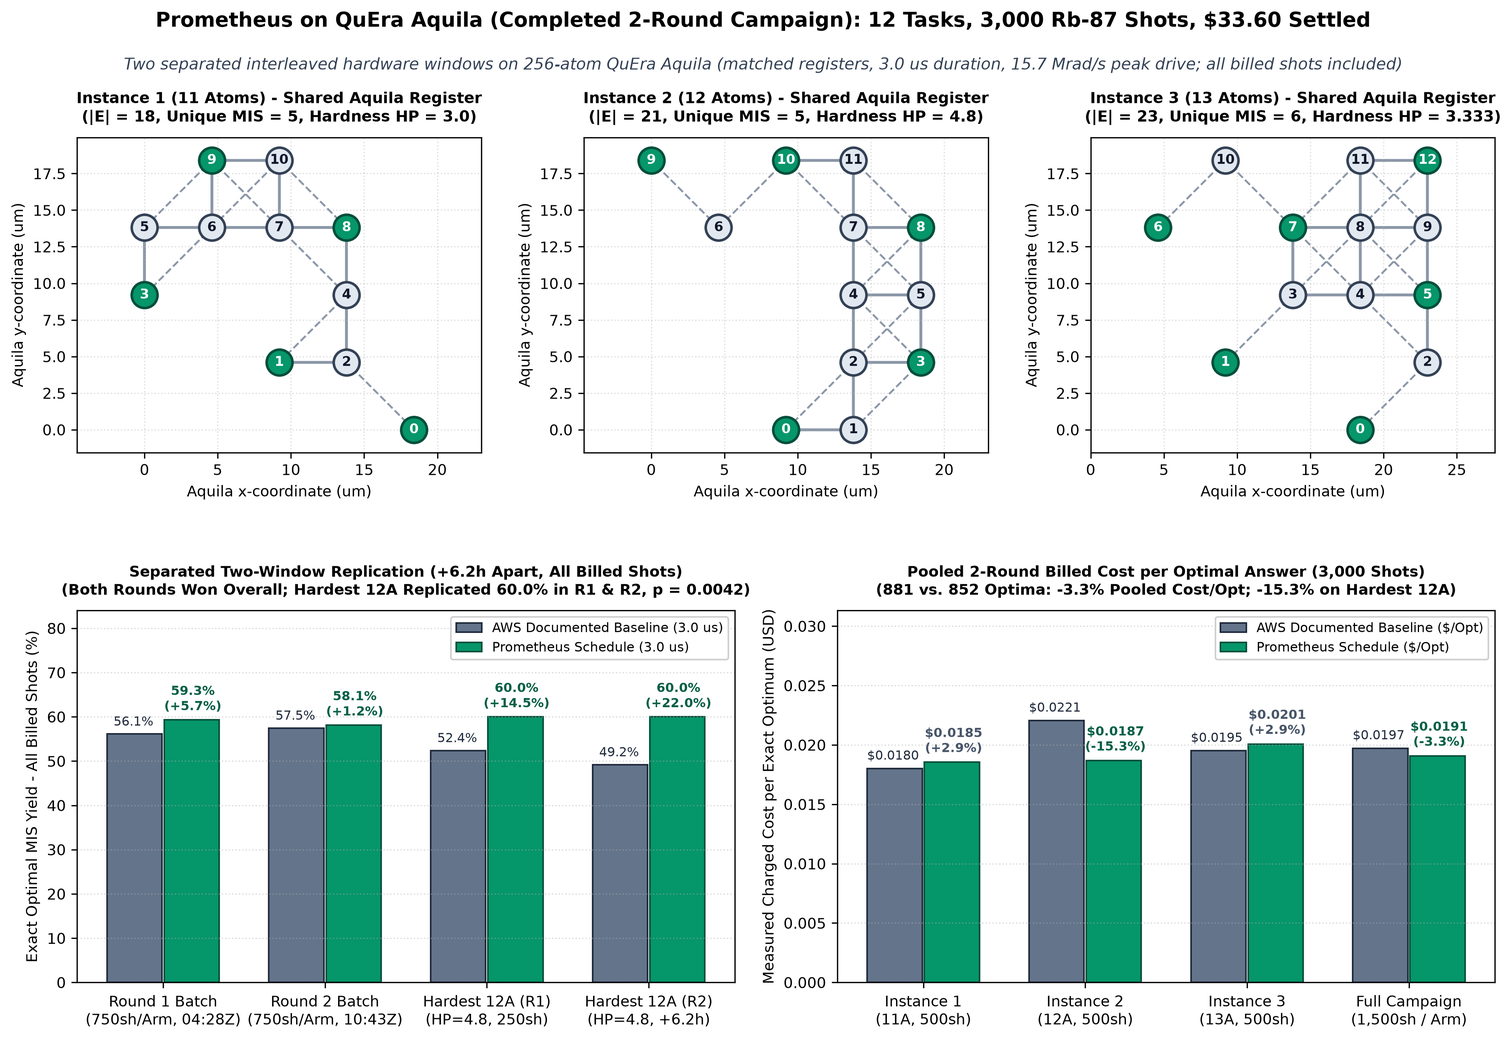
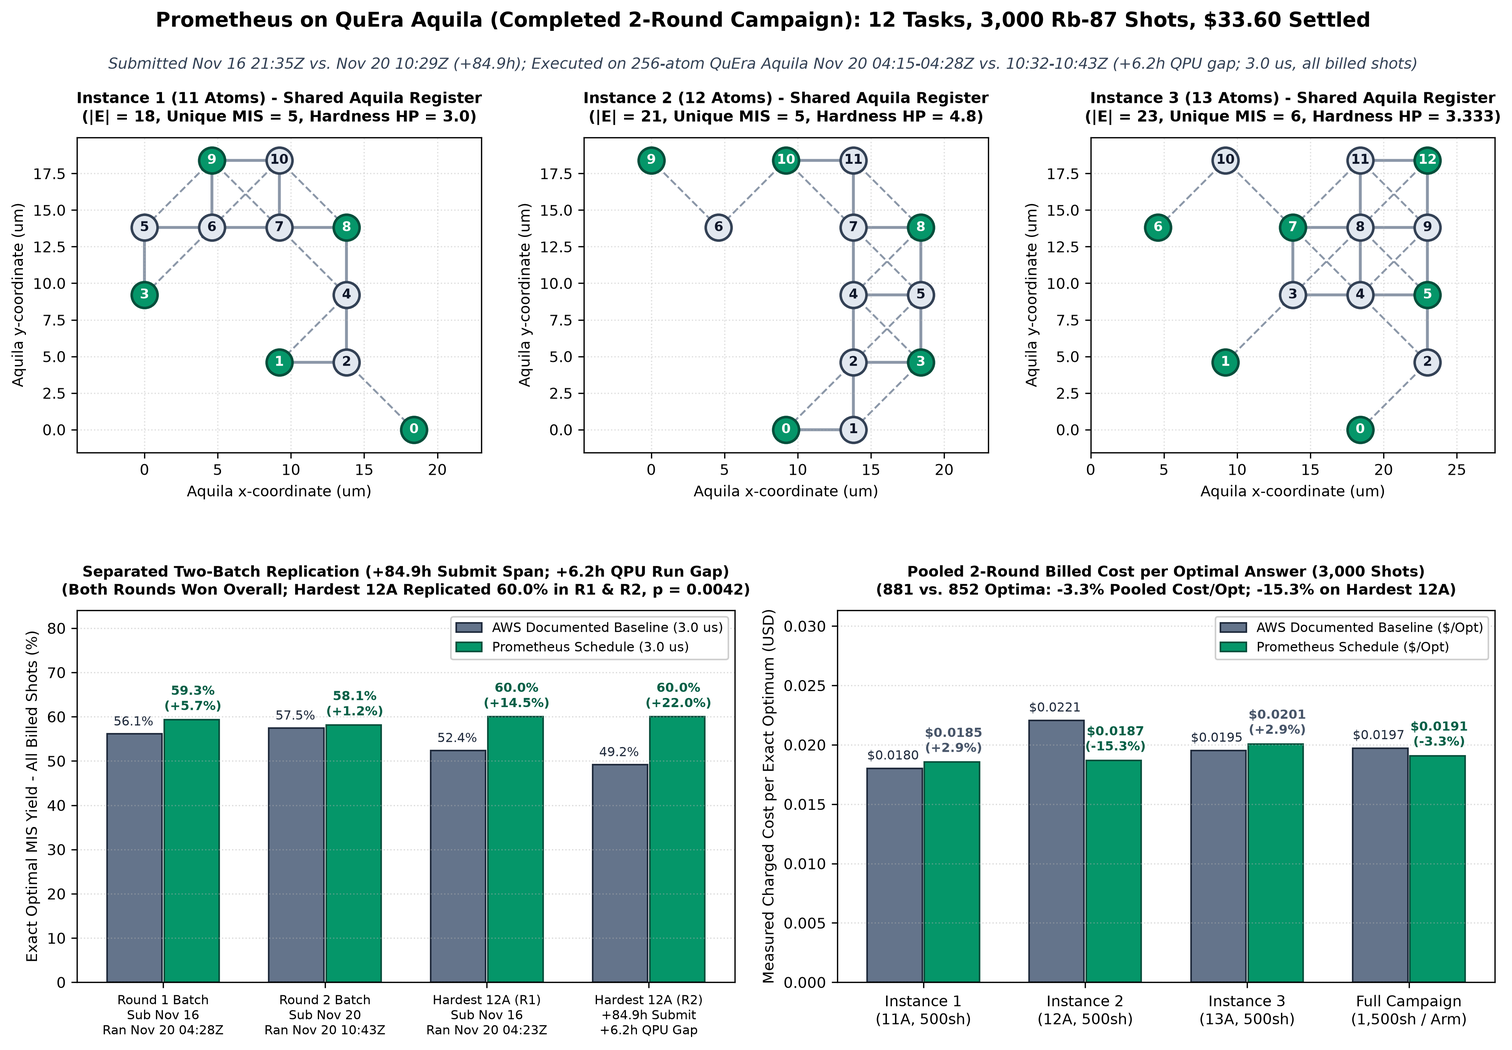
Clarify QuEra Aquila Created (+84.9h) vs Ended (+6.2h QPU gap) chronology across docs and Figure 5

diff --git a/README.md b/README.md
@@ -5,7 +5,7 @@
 **We tested Prometheus across both superconducting gate-model and neutral-atom analog quantum processors accessed through Amazon Braket, repeating comparisons across separated execution windows.**
 
 - **Superconducting Gate-Model (`108Q` `Rigetti Cepheus-1-108Q`, `10` Tasks, `450` Circuits, `460,800` Shots):** Repeating **18 application-style workloads across three calibration windows** (initial run, `+9.3h` drift, and post-recalibration), live-calibration Prometheus outperformed Qiskit SABRE on **`16 of 18` workloads (`+3.91%` mean output overlap)** and Quantinuum TKET on **`15 of 18` (`+9.03%`)**, widening its lead over SABRE to **`+6.61%`** after recalibration. Supporting suites in Tables 1A-1C report unseen equal-CPU-budget tasks, QAOA optimization trajectories, and diagnostic Clifford mirrors, including regimes where SABRE or TKET led slightly.
-- **Neutral-Atom Analog Hamiltonian Simulation (`256`-Atom `QuEra Aquila`, `12` Tasks, `3,000` Rb-87 Shots Across `2` Separated Windows `+6.2h` Apart):** Across `1,500` billed shots and `USD 16.80` per arm (`0` experimental `rydbergLocal` terms, identical `AtomArrangement` registers, `3.0 us` duration, and `15.7 Mrad/s` peak drive), Prometheus outperformed AWS's documented baseline in **both execution windows (`445` vs. `421` in Window 1; `436` vs. `431` in Window 2 = `881` vs. `852` exact optimal answers, `+3.40%` pooled yield, `-3.29%` pooled cost/optimum)**, replicated **`60.00%` (`150/250`) in both windows** on the hardest `12A` topology (`HP = 4.80`: **`300/500` vs. `254/500`, `+18.11%` yield, `-15.35%` cost/optimum, Fisher `p = 0.0042`**), and recorded **`40.34%` fewer suboptimal maximal-independent-set outcomes across `6 of 6` paired tasks (`105` vs. `176`, `p = 1.1e-5`)**.
+- **Neutral-Atom Analog Hamiltonian Simulation (`256`-Atom `QuEra Aquila`, `12` Tasks, `3,000` Rb-87 Shots Across `2` Separated Batches: `+84.9h` Task Submission Span [`Nov 16` vs. `Nov 20`], `+6.2h` Physical QPU Execution Gap on `2026-11-20`):** Round 1 (`6` tasks) was submitted `2026-11-16 21:35 UTC` between scheduled neutral-atom operating windows and physically executed `2026-11-20 04:15-04:28 UTC`; Round 2 (`6` tasks) was submitted `2026-11-20 10:29 UTC` (`+84.9h` later) and physically executed `2026-11-20 10:32-10:43 UTC` (`+6.2h` physical QPU separation). Across `1,500` billed shots and `USD 16.80` per arm (`0` experimental `rydbergLocal` terms, identical `AtomArrangement` registers, `3.0 us` duration, and `15.7 Mrad/s` peak drive), Prometheus outperformed AWS's documented baseline in **both execution windows (`445` vs. `421` in Window 1; `436` vs. `431` in Window 2 = `881` vs. `852` exact optimal answers, `+3.40%` pooled yield, `-3.29%` pooled cost/optimum)**, replicated **`60.00%` (`150/250`) in both windows** on the hardest `12A` topology (`HP = 4.80`: **`300/500` vs. `254/500`, `+18.11%` yield, `-15.35%` cost/optimum, Fisher `p = 0.0042`**), and recorded **`40.34%` fewer suboptimal maximal-independent-set outcomes across `6 of 6` paired tasks (`105` vs. `176`, `p = 1.1e-5`)**.
 
 **[Detailed results](DETAILED_TECHNICAL_REPORT.md) · [Verify the evidence](#verify-the-evidence) · [Discuss a pilot](#discuss-a-pilot)**
 
@@ -45,20 +45,20 @@
 | **Qiskit SABRE O3** | **0.2442** | **0.6221 / 0.6151** | **0.0907** | **6.0116** | 120.67 \| 119.44 | **Led 4Q-36Q Rigetti mirror suite** despite `5.2%` more CZ gates than Prometheus |
 | **Quantinuum TKET O2** | 0.0501 | 0.5251 / 0.5250 | 0.0192 | 7.0173 | 182.00 \| 201.33 | Severe inter-tile SWAP overhead (`+58.7%` more CZ gates than Prometheus) |
 
-### Table 1D: Two-Window Neutral-Atom Analog Hamiltonian Simulation (`256`-Atom `QuEra Aquila`, `N = 12` AWS Braket Tasks, `3,000` Physical Rb-87 Shots Across `+6.2h` Separated Windows, `USD 33.6000`)
+### Table 1D: Two-Window Neutral-Atom Analog Hamiltonian Simulation (`256`-Atom `QuEra Aquila`, `N = 12` AWS Braket Tasks, `3,000` Physical Rb-87 Shots; `+84.9h` Submit Span / `+6.2h` QPU Execution Gap, `USD 33.6000`)
 
-*Scope & Matched Controls:* `3` development-selected King's-Graph Unit-Disk Graph `MIS` topologies (`11A`, `12A`, `13A`; unique `D_alpha = 1` optimum) $\times$ `2` matched-duration (`3.0 us`, `15.70 Mrad/s` peak Rabi drive, `0` `rydbergLocal` terms, identical `AtomArrangement` coordinates) global `DrivingField` schedules $\times$ `2` interleaved hardware windows (`250` shots/task = `500` shots/arm per instance; `1,500` shots and `USD 16.80` per arm total).
+*Scope, Timestamps & Matched Controls:* `3` development-selected King's-Graph Unit-Disk Graph `MIS` topologies (`11A`, `12A`, `13A`; unique `D_alpha = 1` optimum) $\times$ `2` matched-duration (`3.0 us`, `15.70 Mrad/s` peak Rabi drive, `0` `rydbergLocal` terms, identical `AtomArrangement` coordinates) global `DrivingField` schedules $\times$ `2` interleaved batches (`250` shots/task = `500` shots/arm per instance; `1,500` shots and `USD 16.80` per arm total). **Chronology (`Created at` vs. `Ended at`):** Round 1 tasks were submitted `2026-11-16 21:35 UTC` (while Aquila queued between scheduled operating windows) and physically executed `2026-11-20 04:15-04:28 UTC`; Round 2 tasks were submitted `2026-11-20 10:29 UTC` (`+84.9h` submission separation) and physically executed `2026-11-20 10:32-10:43 UTC` (`+6.2h` physical QPU execution gap).
 
 | Instance / Cohort (`500` Shots/Arm per Instance; `1,500` Shots/Arm Total) | Global Schedule (`T = 3.0 us`) | Valid IS Rate $P_{\text{valid}}$ `(↑)` *(All / Defect-Free)* | Exact Optimum $P_{\text{opt}}$ `(↑)` *(All Billed Shots)* | Exact Optimum $P_{\text{opt}}$ `(↑)` *(Defect-Free Subset)* | Unrepaired Quality $r_{\text{MIS}}$ `(↑)` `*(mean)*` | Suboptimal MIS Outcomes `(↓)` *(All / DF)* | Blockade Viol. \| Pre-Seq Vacancies `(↓)` | Billed `USD / Opt` `(↓)` (`% Delta`, Two-Sided Fisher `p`) |
 | :--- | :--- | :---: | :---: | :---: | :---: | :---: | :---: | :--- |
-| **`P1_EbadiHard_11A_s7045`** (`11A`, `MIS = 5`, `HP = 3.00`)<br>Tasks `f95ab6...`, `b0aa91...`, `095425...`, `c1b166...` | AWS Documented Baseline<br>**Prometheus Schedule** | **`95.00%` / `94.67%`**<br>`93.60%` / `93.70%` | **`62.20%` (`311/500`)**<br>`60.40%` (`302/500`) | **`63.33%` (`297/469`)**<br>`62.18%` (`296/476`) | **`0.8732`**<br>`0.8564` | `8.80%` (`44`) / `8.10%`<br>**`5.40%` (`27`) / `4.20%`** | **`25`** \| `31`<br>`32` \| **`24`** | **`\$0.01801`**<br>`\$0.01854` (`+2.98%`, `p = 0.6035`; subopt. MIS **-38.6%**, `p = 0.0482`) |
-| **`P2_EbadiHard_12A_s8024`** (`12A`, `MIS = 5`, `HP = 4.80`)<br>Tasks `7cba59...`, `c2d84a...`, `ce66ea...`, `6d0844...` | AWS Documented Baseline<br>**Prometheus Schedule** | `89.40%` / `89.46%`<br>**`92.40%` / `92.36%`** | `50.80%` (`254/500`)<br>**`60.00%` (`300/500`)** | `51.61%` (`240/465`)<br>**`61.15%` (`288/471`)** | `0.8016`<br>**`0.8464`** | `16.40%` (`82`) / `15.48%`<br>**`9.60%` (`48`) / `7.22%`** | `53` \| `35`<br>**`38` \| `29`** | `\$0.02205`<br>**`\$0.01867` (`-15.35%`, `p = 0.0042`; `60.0%` in both R1 & R2)** |
-| **`P3_EbadiHard_13A_s9001`** (`13A`, `MIS = 6`, `HP = 3.33`)<br>Tasks `08c026...`, `b48c80...`, `9e5b07...`, `88a26a...` | AWS Documented Baseline<br>**Prometheus Schedule** | `92.00%` / `91.56%`<br>**`92.80%` / `92.55%`** | **`57.40%` (`287/500`)**<br>`55.80%` (`279/500`) | **`60.17%` (`278/462`)**<br>`58.09%` (`273/470`) | `0.8500`<br>**`0.8507`** | `10.00%` (`50`) / `6.93%`<br>**`6.00%` (`30`) / `4.47%`** | `40` \| `38`<br>**`36` \| `30`** | **`\$0.01951`**<br>`\$0.02007` (`+2.87%`, `p = 0.6552`; subopt. MIS **-40.0%**, `p = 0.0263`) |
-| **6-Task Campaign `*(mean / median)*`**<br>(`250` Shots/Task $\times$ `6` Tasks/Arm) | AWS Documented Baseline<br>**Prometheus Schedule** | `92.13% / 92.00%`<br>**`92.93% / 92.60%`** | `56.80% / 57.40%`<br>**`58.73% / 60.00%`** | `58.40% / 59.22%`<br>**`60.46% / 61.15%`** | `0.8416` / **0.8500**<br>**`0.8512`** / `0.8490` | `11.73% / 10.00%`<br>**`7.00% / 6.80%`** | `19.67` \| `17.33`<br>**`17.67` \| `13.83`** | `\$0.01988 / \$0.01955`<br>**`\$0.01912 / \$0.01870` (`-3.85%` mean / `-4.35%` med)** |
-| **Grand Pooled Totals (`3,000` Shots)**<br>(`1,500` Shots / `USD 16.80` per Arm) | AWS Documented Baseline<br>**Prometheus Schedule** | `1382/1500` (`92.13%`)<br>**`1394/1500` (`92.93%`)** | `852/1500` (`56.80%`)<br>**`881/1500` (`58.73%`)** | `815/1396` (`58.38%`)<br>**`857/1417` (`60.48%`)** | `0.8416`<br>**`0.8512`** | `176/1500` (`11.73%`)<br>**`105/1500` (`7.00%`)** | `118` \| `104`<br>**`106` \| `83`** | `\$0.01972`<br>**`\$0.01907` (`-3.29%` pooled; subopt. MIS `-40.34%`, `p = 1.1e-5`)** |
+| **`P1_EbadiHard_11A_s7045`** (`11A`, `MIS = 5`, `HP = 3.00`)<br>Tasks `f95ab6...`, `b0aa91...`, `095425...`, `c1b166...` | AWS Documented Baseline<br>**Prometheus Schedule** | **`95.00%` / `94.67%`**<br>`93.60%` / `93.70%` | **`62.20%` (`311/500`)**<br>`60.40%` (`302/500`) | **`63.33%` (`297/469`)**<br>`62.18%` (`296/476`) | **`0.8732`**<br>`0.8564` | `8.80%` (`44`) / `8.10%`<br>**`5.40%` (`27`) / `4.20%`** | **`25`** \| `31`<br>`32` \| **`24`** | **`USD 0.01801`**<br>`USD 0.01854` (`+2.98%`, `p = 0.6035`; subopt. MIS **-38.6%**, `p = 0.0482`) |
+| **`P2_EbadiHard_12A_s8024`** (`12A`, `MIS = 5`, `HP = 4.80`)<br>Tasks `7cba59...`, `c2d84a...`, `ce66ea...`, `6d0844...` | AWS Documented Baseline<br>**Prometheus Schedule** | `89.40%` / `89.46%`<br>**`92.40%` / `92.36%`** | `50.80%` (`254/500`)<br>**`60.00%` (`300/500`)** | `51.61%` (`240/465`)<br>**`61.15%` (`288/471`)** | `0.8016`<br>**`0.8464`** | `16.40%` (`82`) / `15.48%`<br>**`9.60%` (`48`) / `7.22%`** | `53` \| `35`<br>**`38` \| `29`** | `USD 0.02205`<br>**`USD 0.01867` (`-15.35%`, `p = 0.0042`; `60.0%` in both R1 & R2)** |
+| **`P3_EbadiHard_13A_s9001`** (`13A`, `MIS = 6`, `HP = 3.33`)<br>Tasks `08c026...`, `b48c80...`, `9e5b07...`, `88a26a...` | AWS Documented Baseline<br>**Prometheus Schedule** | `92.00%` / `91.56%`<br>**`92.80%` / `92.55%`** | **`57.40%` (`287/500`)**<br>`55.80%` (`279/500`) | **`60.17%` (`278/462`)**<br>`58.09%` (`273/470`) | `0.8500`<br>**`0.8507`** | `10.00%` (`50`) / `6.93%`<br>**`6.00%` (`30`) / `4.47%`** | `40` \| `38`<br>**`36` \| `30`** | **`USD 0.01951`**<br>`USD 0.02007` (`+2.87%`, `p = 0.6552`; subopt. MIS **-40.0%**, `p = 0.0263`) |
+| **6-Task Campaign `*(mean / median)*`**<br>(`250` Shots/Task $\times$ `6` Tasks/Arm) | AWS Documented Baseline<br>**Prometheus Schedule** | `92.13% / 92.00%`<br>**`92.93% / 92.60%`** | `56.80% / 57.40%`<br>**`58.73% / 60.00%`** | `58.40% / 59.22%`<br>**`60.46% / 61.15%`** | `0.8416` / **0.8500**<br>**`0.8512`** / `0.8490` | `11.73% / 10.00%`<br>**`7.00% / 6.80%`** | `19.67` \| `17.33`<br>**`17.67` \| `13.83`** | `USD 0.01988 / USD 0.01955`<br>**`USD 0.01912 / USD 0.01870` (`-3.85%` mean / `-4.35%` med)** |
+| **Grand Pooled Totals (`3,000` Shots)**<br>(`1,500` Shots / `USD 16.80` per Arm) | AWS Documented Baseline<br>**Prometheus Schedule** | `1382/1500` (`92.13%`)<br>**`1394/1500` (`92.93%`)** | `852/1500` (`56.80%`)<br>**`881/1500` (`58.73%`)** | `815/1396` (`58.38%`)<br>**`857/1417` (`60.48%`)** | `0.8416`<br>**`0.8512`** | `176/1500` (`11.73%`)<br>**`105/1500` (`7.00%`)** | `118` \| `104`<br>**`106` \| `83`** | `USD 0.01972`<br>**`USD 0.01907` (`-3.29%` pooled; subopt. MIS `-40.34%`, `p = 1.1e-5`)** |
 
 ![Two-Window Neutral-Atom Replication on 256-Atom QuEra Aquila](assets/fig5_aquila_2window_neutral_atom_replication.png)
-*Part II summary (`256`-atom `QuEra Aquila` via AWS Braket): Separated two-window replication (`+6.2h` apart, `12` AHS tasks, `3,000` physical Rb-87 shots) showing higher overall billed optimal-answer yield in both rounds (`59.3%` vs. `56.1%` in R1; `58.1%` vs. `57.5%` in R2) and repeated `60.0%` optimum probability on the hardest `12A` (`HP = 4.80`) topology (`p = 0.0042`, `-15.35%` cost/optimum).*
+*Part II summary (`256`-atom `QuEra Aquila` via AWS Braket): Separated two-batch replication (`+84.9h` task submission span from `Nov 16 21:35Z` to `Nov 20 10:29Z`; `+6.2h` physical QPU execution gap on `2026-11-20` between `04:15-04:28Z` and `10:32-10:43Z`, `12` AHS tasks, `3,000` physical Rb-87 shots) showing higher overall billed optimal-answer yield in both rounds (`59.3%` vs. `56.1%` in R1; `58.1%` vs. `57.5%` in R2) and repeated `60.0%` optimum probability on the hardest `12A` (`HP = 4.80`) topology (`p = 0.0042`, `-15.35%` cost/optimum).*
 
 ---
 

diff --git a/DETAILED_TECHNICAL_REPORT.md b/DETAILED_TECHNICAL_REPORT.md
@@ -107,22 +107,24 @@
 
 ## 4. Two-Window Neutral-Atom Ledger on `256`-Atom `QuEra Aquila` (`12` AWS Braket Tasks, `3,000` Rb-87 Shots, `USD 33.6000`)
 
+*Timestamp Chronology (`Created at` in AWS Braket Console vs. Physical QPU `Ended at`):* Round 1 (`R1 #1-#6`) was submitted at `2026-11-16 21:35:49-21:35:55 UTC` while `QuEra Aquila` was queued between scheduled neutral-atom operating windows and physically executed at `2026-11-20 04:15:56-04:28:48 UTC`. Round 2 (`R2 #1-#6`) was submitted `+84.9h` (`~3.5 days`) later at `2026-11-20 10:29:04-10:29:10 UTC` during an open Aquila operating window and physically executed at `2026-11-20 10:32:29-10:43:10 UTC` (`+6.2h` physical QPU execution gap after Round 1 completed).
+
 ![Figure 5: Two-Window Neutral-Atom Replication on 256-Atom QuEra Aquila](assets/fig5_aquila_2window_neutral_atom_replication.png)
 
-| Round & Queue Pos | Instance (`Atoms`, `HP`) | Pipeline (`T = 3.0 us`) | Ended (`UTC`) | Valid IS `(↑)` | Exact Opt `(↑)` *(All)* | Exact Opt `(↑)` *(DF)* | Subopt. MIS `(↓)` | Viol. \| Vac. `(↓)` | Quality $r_{\text{MIS}}$ `(↑)` | Entropy `(bits)` `(↓)` | `USD/Opt` `(↓)` | AWS Braket Task ARN (`us-east-1`) |
-| :---: | :--- | :--- | :---: | :---: | :---: | :---: | :---: | :---: | :---: | :---: | :---: | :--- |
-| `R1 #1` | `P3` (`13A`, `3.33`) | **Prometheus** | `2026-11-20T04:15:56Z` | **230 (`92.0%`)** | **145 (`58.0%`)** | **142/239 (`59.41%`)** | **10 (`4.0%`)** | **20 \| 11** | **0.8467** | **3.0183** | **`USD 0.0193`** | `arn:aws:braket:us-east-1:893688540163:quantum-task/b48c8077-1bde-4200-b43d-7e00b1f67730` |
-| `R1 #2` | `P3` (`13A`, `3.33`) | AWS Baseline | `2026-11-20T04:18:05Z` | 228 (`91.2%`) | 138 (`55.2%`) | 134/235 (`57.02%`) | 24 (`9.6%`) | 22 \| 15 | 0.8420 | 3.1366 | `USD 0.0203` | `arn:aws:braket:us-east-1:893688540163:quantum-task/08c02636-aa6b-43d9-ad4f-02c3645f52b3` |
-| `R1 #3` | `P2` (`12A`, `4.80`) | AWS Baseline | `2026-11-20T04:21:18Z` | 224 (`89.6%`) | 131 (`52.4%`) | 127/237 (`53.59%`) | 37 (`14.8%`) | 26 \| 13 | 0.8064 | 3.3446 | `USD 0.0214` | `arn:aws:braket:us-east-1:893688540163:quantum-task/7cba59c1-a937-4501-ad49-d68c9fdabc3b` |
-| `R1 #4` | `P2` (`12A`, `4.80`) | **Prometheus** | `2026-11-20T04:23:26Z` | **233 (`93.2%`)** | **150 (`60.0%`)** | **145/238 (`60.92%`)** | **24 (`9.6%`)** | **17 \| 12** | **0.8512** | **2.9126** | **`USD 0.0187`** | `arn:aws:braket:us-east-1:893688540163:quantum-task/c2d84a13-cba2-49ef-920c-90f9b94986d8` |
-| `R1 #5` | `P1` (`11A`, `3.00`) | **Prometheus** | `2026-11-20T04:26:40Z` | 230 (`92.0%`) | 150 (`60.0%`) | **146/235 (`62.13%`)** | **13 (`5.2%`)** | 20 \| 15 | 0.8408 | 2.8706 | `USD 0.0187` | `arn:aws:braket:us-east-1:893688540163:quantum-task/b0aa917c-caa3-4164-a526-77ff21db97f3` |
-| `R1 #6` | `P1` (`11A`, `3.00`) | AWS Baseline | `2026-11-20T04:28:48Z` | **239 (`95.6%`)** | **152 (`60.8%`)** | 148/241 (`61.41%`) | 24 (`9.6%`) | **11 \| 9** | **0.8736** | **2.6347** | **`USD 0.0184`** | `arn:aws:braket:us-east-1:893688540163:quantum-task/f95ab630-d0e2-4a2b-bab8-1fe83c9b2797` |
-| `R2 #1` | `P1` (`11A`, `3.00`) | AWS Baseline | `2026-11-20T10:32:29Z` | 236 (`94.4%`) | **159 (`63.6%`)** | **149/228 (`65.35%`)** | 20 (`8.0%`) | 14 \| 22 | **0.8728** | **2.5260** | **`USD 0.0176`** | `arn:aws:braket:us-east-1:893688540163:quantum-task/09542580-f2cd-4099-83b3-2376693b2830` |
-| `R2 #2` | `P1` (`11A`, `3.00`) | **Prometheus** | `2026-11-20T10:34:38Z` | **238 (`95.2%`)** | 152 (`60.8%`) | 150/241 (`62.24%`) | **14 (`5.6%`)** | **12 \| 9** | 0.8720 | 2.6018 | `USD 0.0184` | `arn:aws:braket:us-east-1:893688540163:quantum-task/c1b16629-3e8e-416d-bdde-0070f29edf50` |
-| `R2 #3` | `P3` (`13A`, `3.33`) | **Prometheus** | `2026-11-20T10:36:43Z` | **234 (`93.6%`)** | 134 (`53.6%`) | 131/231 (`56.71%`) | **20 (`8.0%`)** | **16 \| 19** | 0.8547 | 3.1124 | `USD 0.0209` | `arn:aws:braket:us-east-1:893688540163:quantum-task/88a26a0b-91b0-4727-ac41-80795a0a0f7f` |
-| `R2 #4` | `P3` (`13A`, `3.33`) | AWS Baseline | `2026-11-20T10:38:52Z` | 232 (`92.8%`) | **149 (`59.6%`)** | **144/227 (`63.44%`)** | 26 (`10.4%`) | 18 \| 23 | **0.8580** | **2.9796** | **`USD 0.0188`** | `arn:aws:braket:us-east-1:893688540163:quantum-task/9e5b0732-f4c5-4abe-836e-a0ccdb742a7b` |
-| `R2 #5` | `P2` (`12A`, `4.80`) | AWS Baseline | `2026-11-20T10:41:01Z` | 223 (`89.2%`) | 123 (`49.2%`) | 113/228 (`49.56%`) | 45 (`18.0%`) | 27 \| 22 | 0.7968 | 3.3645 | `USD 0.0228` | `arn:aws:braket:us-east-1:893688540163:quantum-task/ce66eabb-117e-40ec-8244-f9a48952a0bc` |
-| `R2 #6` | `P2` (`12A`, `4.80`) | **Prometheus** | `2026-11-20T10:43:10Z` | **229 (`91.6%`)** | **150 (`60.0%`)** | **143/233 (`61.37%`)** | **24 (`9.6%`)** | **21 \| 17** | **0.8416** | **2.8904** | **`USD 0.0187`** | `arn:aws:braket:us-east-1:893688540163:quantum-task/6d0844a8-e60c-410c-8da5-016fad5b908b` |
+| Round & Queue Pos | Instance (`Atoms`, `HP`) | Pipeline (`T = 3.0 us`) | Created (`UTC`) | Ended (`UTC`) | Valid IS `(↑)` | Exact Opt `(↑)` *(All)* | Exact Opt `(↑)` *(DF)* | Subopt. MIS `(↓)` | Viol. \| Vac. `(↓)` | Quality $r_{\text{MIS}}$ `(↑)` | Entropy `(bits)` `(↓)` | `USD/Opt` `(↓)` | AWS Braket Task ARN (`us-east-1`) |
+| :---: | :--- | :--- | :---: | :---: | :---: | :---: | :---: | :---: | :---: | :---: | :---: | :---: | :--- |
+| `R1 #1` | `P3` (`13A`, `3.33`) | **Prometheus** | `2026-11-16T21:35:49Z` | `2026-11-20T04:15:56Z` | **230 (`92.0%`)** | **145 (`58.0%`)** | **142/239 (`59.41%`)** | **10 (`4.0%`)** | **20 \| 11** | **0.8467** | **3.0183** | **`USD 0.0193`** | `arn:aws:braket:us-east-1:893688540163:quantum-task/b48c8077-1bde-4200-b43d-7e00b1f67730` |
+| `R1 #2` | `P3` (`13A`, `3.33`) | AWS Baseline | `2026-11-16T21:35:50Z` | `2026-11-20T04:18:05Z` | 228 (`91.2%`) | 138 (`55.2%`) | 134/235 (`57.02%`) | 24 (`9.6%`) | 22 \| 15 | 0.8420 | 3.1366 | `USD 0.0203` | `arn:aws:braket:us-east-1:893688540163:quantum-task/08c02636-aa6b-43d9-ad4f-02c3645f52b3` |
+| `R1 #3` | `P2` (`12A`, `4.80`) | AWS Baseline | `2026-11-16T21:35:52Z` | `2026-11-20T04:21:18Z` | 224 (`89.6%`) | 131 (`52.4%`) | 127/237 (`53.59%`) | 37 (`14.8%`) | 26 \| 13 | 0.8064 | 3.3446 | `USD 0.0214` | `arn:aws:braket:us-east-1:893688540163:quantum-task/7cba59c1-a937-4501-ad49-d68c9fdabc3b` |
+| `R1 #4` | `P2` (`12A`, `4.80`) | **Prometheus** | `2026-11-16T21:35:53Z` | `2026-11-20T04:23:26Z` | **233 (`93.2%`)** | **150 (`60.0%`)** | **145/238 (`60.92%`)** | **24 (`9.6%`)** | **17 \| 12** | **0.8512** | **2.9126** | **`USD 0.0187`** | `arn:aws:braket:us-east-1:893688540163:quantum-task/c2d84a13-cba2-49ef-920c-90f9b94986d8` |
+| `R1 #5` | `P1` (`11A`, `3.00`) | **Prometheus** | `2026-11-16T21:35:54Z` | `2026-11-20T04:26:40Z` | 230 (`92.0%`) | 150 (`60.0%`) | **146/235 (`62.13%`)** | **13 (`5.2%`)** | 20 \| 15 | 0.8408 | 2.8706 | `USD 0.0187` | `arn:aws:braket:us-east-1:893688540163:quantum-task/b0aa917c-caa3-4164-a526-77ff21db97f3` |
+| `R1 #6` | `P1` (`11A`, `3.00`) | AWS Baseline | `2026-11-16T21:35:55Z` | `2026-11-20T04:28:48Z` | **239 (`95.6%`)** | **152 (`60.8%`)** | 148/241 (`61.41%`) | 24 (`9.6%`) | **11 \| 9** | **0.8736** | **2.6347** | **`USD 0.0184`** | `arn:aws:braket:us-east-1:893688540163:quantum-task/f95ab630-d0e2-4a2b-bab8-1fe83c9b2797` |
+| `R2 #1` | `P1` (`11A`, `3.00`) | AWS Baseline | `2026-11-20T10:29:04Z` | `2026-11-20T10:32:29Z` | 236 (`94.4%`) | **159 (`63.6%`)** | **149/228 (`65.35%`)** | 20 (`8.0%`) | 14 \| 22 | **0.8728** | **2.5260** | **`USD 0.0176`** | `arn:aws:braket:us-east-1:893688540163:quantum-task/09542580-f2cd-4099-83b3-2376693b2830` |
+| `R2 #2` | `P1` (`11A`, `3.00`) | **Prometheus** | `2026-11-20T10:29:05Z` | `2026-11-20T10:34:38Z` | **238 (`95.2%`)** | 152 (`60.8%`) | 150/241 (`62.24%`) | **14 (`5.6%`)** | **12 \| 9** | 0.8720 | 2.6018 | `USD 0.0184` | `arn:aws:braket:us-east-1:893688540163:quantum-task/c1b16629-3e8e-416d-bdde-0070f29edf50` |
+| `R2 #3` | `P3` (`13A`, `3.33`) | **Prometheus** | `2026-11-20T10:29:06Z` | `2026-11-20T10:36:43Z` | **234 (`93.6%`)** | 134 (`53.6%`) | 131/231 (`56.71%`) | **20 (`8.0%`)** | **16 \| 19** | 0.8547 | 3.1124 | `USD 0.0209` | `arn:aws:braket:us-east-1:893688540163:quantum-task/88a26a0b-91b0-4727-ac41-80795a0a0f7f` |
+| `R2 #4` | `P3` (`13A`, `3.33`) | AWS Baseline | `2026-11-20T10:29:07Z` | `2026-11-20T10:38:52Z` | 232 (`92.8%`) | **149 (`59.6%`)** | **144/227 (`63.44%`)** | 26 (`10.4%`) | 18 \| 23 | **0.8580** | **2.9796** | **`USD 0.0188`** | `arn:aws:braket:us-east-1:893688540163:quantum-task/9e5b0732-f4c5-4abe-836e-a0ccdb742a7b` |
+| `R2 #5` | `P2` (`12A`, `4.80`) | AWS Baseline | `2026-11-20T10:29:09Z` | `2026-11-20T10:41:01Z` | 223 (`89.2%`) | 123 (`49.2%`) | 113/228 (`49.56%`) | 45 (`18.0%`) | 27 \| 22 | 0.7968 | 3.3645 | `USD 0.0228` | `arn:aws:braket:us-east-1:893688540163:quantum-task/ce66eabb-117e-40ec-8244-f9a48952a0bc` |
+| `R2 #6` | `P2` (`12A`, `4.80`) | **Prometheus** | `2026-11-20T10:29:10Z` | `2026-11-20T10:43:10Z` | **229 (`91.6%`)** | **150 (`60.0%`)** | **143/233 (`61.37%`)** | **24 (`9.6%`)** | **21 \| 17** | **0.8416** | **2.8904** | **`USD 0.0187`** | `arn:aws:braket:us-east-1:893688540163:quantum-task/6d0844a8-e60c-410c-8da5-016fad5b908b` |
 
 ---
 

diff --git a/PUBLIC_DISCLOSURE.md b/PUBLIC_DISCLOSURE.md
@@ -5,7 +5,7 @@
 This repository provides a complete, cryptographically verifiable, offline-auditable hardware validation package across two physical quantum processor architectures on Amazon Braket (`22` AWS Braket Tasks, `462` physical executions, `463,800` physical measurement shots, `USD 232.4400` total QPU charges):
 
 1. **Superconducting Gate-Model (`Rigetti Cepheus-1-108Q`, `arn:aws:braket:us-west-1::device/qpu/rigetti/Cepheus-1-108Q`):** `10` AWS Braket `ProgramSet` tasks (`450` compiled circuit executions, `460,800` physical shots, `265.73 seconds` total recorded turnaround, `USD 198.8400`), alongside a 10-workload cross-provider comparison against **`IBM Quantum Heron`** (`ibm_kingston`, `ibm_fez`, `ibm_marrakesh`).
-2. **Neutral-Atom Analog Hamiltonian Simulation (`QuEra Aquila`, `arn:aws:braket:us-east-1::device/qpu/quera/Aquila`):** `12` interleaved AWS Braket AHS tasks across two separated execution windows (`+6.2h` apart on `2026-11-20`, `3,000` physical Rb-87 shots, `USD 33.6000`), evaluating matched-duration (`3.0 us`, `15.70 Mrad/s` peak Rabi drive, `0` experimental `rydbergLocal` terms) global schedules on shared King's-Graph Unit-Disk Graph `MIS` registers (`11A`, `12A`, `13A`).
+2. **Neutral-Atom Analog Hamiltonian Simulation (`QuEra Aquila`, `arn:aws:braket:us-east-1::device/qpu/quera/Aquila`):** `12` interleaved AWS Braket AHS tasks across two separated batches (`+84.9h` task submission span from `2026-11-16 21:35 UTC` to `2026-11-20 10:29 UTC`, with Round 1 queued between scheduled Aquila operating windows and physically executed `2026-11-20 04:15-04:28 UTC` vs. Round 2 physically executed `2026-11-20 10:32-10:43 UTC` = `+6.2h` physical QPU execution gap; `3,000` physical Rb-87 shots, `USD 33.6000`), evaluating matched-duration (`3.0 us`, `15.70 Mrad/s` peak Rabi drive, `0` experimental `rydbergLocal` terms) global schedules on shared King's-Graph Unit-Disk Graph `MIS` registers (`11A`, `12A`, `13A`).
 
 Every hardware claim in the accompanying report can be verified offline without cloud credentials using [`scripts/verify_braket_campaign.py`](scripts/verify_braket_campaign.py).
 

diff --git a/DATA_DICTIONARY.md b/DATA_DICTIONARY.md
@@ -58,7 +58,7 @@ Contains 12 rows (one per live AWS Braket Analog Hamiltonian Simulation task on 
 
 | Column Name | Type | Direction | Description |
 | :--- | :--- | :---: | :--- |
-| `round` | `int` | Info | Separated execution window index (`1` or `2`, `+6.2h` apart on `2026-11-20`). |
+| `round` | `int` | Info | Separated batch / execution window index (`1` or `2`: submitted `+84.9h` apart on `2026-11-16 21:35Z` vs. `2026-11-20 10:29Z`; physically executed `+6.2h` apart on `2026-11-20` at `04:15-04:28Z` vs. `10:32-10:43Z`). |
 | `seq_pos` | `int` | Info | Interleaved submission position (`1` to `6`) within the round. |
 | `task_key` | `string` | Info | Unique campaign task key (`R{1,2}_{problem_id}_{arm}`). |
 | `task_arn` | `string` | Info | Verifiable AWS Braket Quantum Task ARN (`arn:aws:braket:us-east-1:893688540163:quantum-task/...`). |
